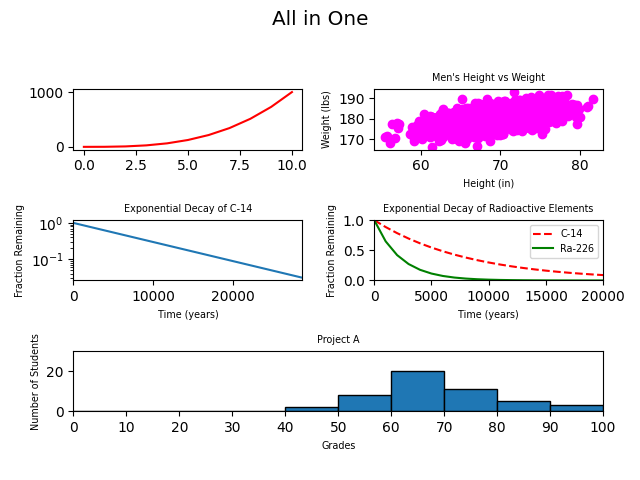
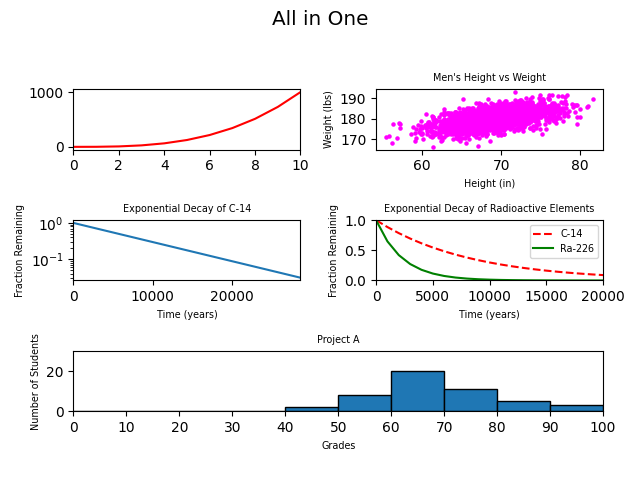
push task5

diff --git a/math/plotting/5-all_in_one.py b/math/plotting/5-all_in_one.py
@@ -1,6 +1,11 @@
 #!/usr/bin/env python3
+"""
+Cette fonction permet de rassembler plusieurs types de
+graphique dans un seul et unique bloque (Une figure)
+"""
 import numpy as np
 import matplotlib.pyplot as plt
+
 
 def all_in_one():
 
@@ -27,23 +32,24 @@ def all_in_one():
     np.random.seed(5)
     student_grades = np.random.normal(68, 15, 50)
 
-
-    fig = plt.figure(figsize=(6.4 ,4.8))
+    fig = plt.figure(figsize=(6.4, 4.8))
     fig.suptitle('All in One', fontsize='x-large')
 
-    #subplot1
-    ax1= fig.add_subplot(3,2,1)
-    ax1.plot(y0,'r-')
+    # subplot1 graphique linéaire
+    ax1 = fig.add_subplot(3, 2, 1)
+    ax1.plot(y0, 'r-')
+    # l’axe x commence à 0 et finit au dernier index
+    ax1.set_xlim(0, len(y0)-1)
 
-    #subplot2
-    ax2= fig.add_subplot(3,2,2)
-    ax2.scatter(x1, y1, color='magenta')
+    # subplot2 graphique à nuage de point
+    ax2 = fig.add_subplot(3, 2, 2)
+    ax2.scatter(x1, y1, color='magenta', s=5)
     ax2.set_title("Men's Height vs Weight", fontsize='x-small')
     ax2.set_xlabel("Height (in)", fontsize='x-small')
     ax2.set_ylabel("Weight (lbs)", fontsize='x-small')
 
-    #subplot3
-    ax3= fig.add_subplot(3,2,3)
+    # subplot3 graphique linéaire à l'échelle logarithmique
+    ax3 = fig.add_subplot(3, 2, 3)
     ax3.plot(x2, y2, label='C-14 decay')
     ax3.set_yscale('log')
     ax3.set_xlim(0, 28650)
@@ -51,19 +57,20 @@ def all_in_one():
     ax3.set_xlabel("Time (years)", fontsize='x-small')
     ax3.set_ylabel("Fraction Remaining", fontsize='x-small')
 
-    #subplot4
-    ax4= fig.add_subplot(3,2,4)
+    # subplot4 graphique linéaire à deux coubre
+    ax4 = fig.add_subplot(3, 2, 4)
     ax4.plot(x3, y31, 'r--', label='C-14')
     ax4.plot(x3, y32, 'g-', label='Ra-226')
-    ax4.set_title("Exponential Decay of Radioactive Elements", fontsize='x-small')
+    title_subplot4 = "Exponential Decay of Radioactive Elements"
+    ax4.set_title(title_subplot4, fontsize='x-small')
     ax4.set_xlabel("Time (years)", fontsize='x-small')
     ax4.set_ylabel("Fraction Remaining", fontsize='x-small')
     ax4.set_xlim(0, 20000)
     ax4.set_ylim(0, 1)
     ax4.legend(loc="upper right", fontsize='x-small')
 
-    #subplot5
-    ax5= fig.add_subplot(3,2,(5, 6))
+    # subplot5 historigramme
+    ax5 = fig.add_subplot(3, 2, (5, 6))
     bins = np.arange(0, 101, 10)
     ax5.hist(student_grades, bins, edgecolor='black')
     ax5.set_xlabel('Grades', fontsize='x-small')
